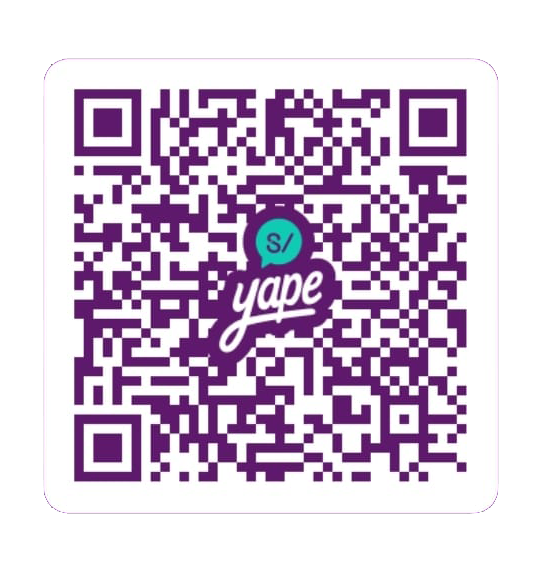
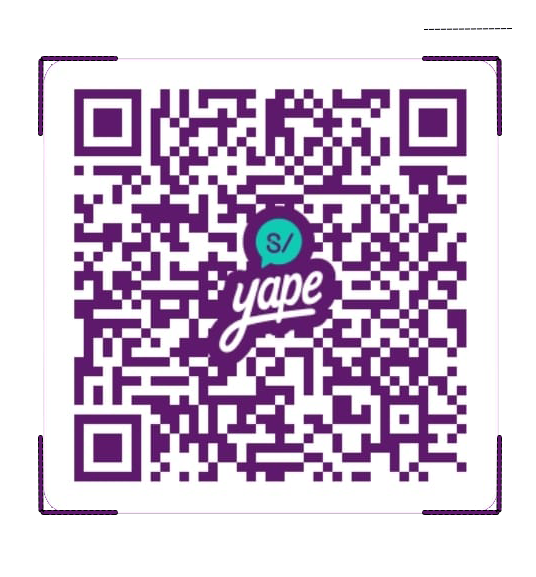
Version-Master

diff --git a/style/styles.css b/style/styles.css
@@ -1,8 +1,8 @@
 :root{
     --black:#000;
     --colorshadow:rgba(73, 121, 255, 0.418);
-    --colorcirculo:#00ff15;
-    --colorcirculoyape:#4f0052;
+    --colorcirculo:#ffffff;
+    --colorcirculoyape:#ffffff;
 }
 *{
     box-sizing: border-box;
@@ -11,12 +11,25 @@
     list-style: none;
     text-decoration: none;
 }
+h5{
+    color: white;
+    font-family: 'Lucida Sans', 'Lucida Sans Regular', 'Lucida Grande', 'Lucida Sans Unicode', Geneva, Verdana, sans-serif;
+}
 nav{
     display: grid;
     padding: 0% 10%;
     height: 70px;
     box-shadow: 1px 4px 20px var(--colorshadow);
     grid-template-columns: 1fr 2fr;
+}
+
+.Comand{
+    height: 15vh;
+    display: flex;
+    gap: 10px;
+    align-items: center;
+    justify-content: center;
+    padding: 5% 10%;
 }
 .checked, #check{
     display: none;
@@ -63,9 +76,7 @@ a{
     display: grid;
     gap: 10px;
     border-radius: 12px;
-    padding: 5%;
-    background-color: red;
-    
+    padding: 5%; 
     border: 1px solid rgb(204, 204, 204);
     grid-template-columns: 1fr 1fr;
 }
@@ -84,7 +95,10 @@ section{
 }
 .yape{
     width: 50%;
-    margin-top: -80px;
+    margin-top: -0px;
+}
+.Text_QR{
+    font-family: Arial, Helvetica, sans-serif;
 }
 .float_yape{
     display: none; /* Ocultar el modal por defecto */
@@ -94,11 +108,25 @@ section{
     bottom: 0vh;
     width: 100%;
     z-index: 3;
-    border-radius: 12px 12px 0px 0px;
+    box-shadow: 0px 0px 10px var(--colorshadow);
+    border-radius:20px 20px 0px 0px;
     height: 45%;
-    box-shadow: 1px 1px 10px black;
-/* Habilitar el scroll si el contenido es muy grande */
-    background-color: rgb(95, 0, 104); /* Fondo semitransparente */
+
+}
+.ScanQR{
+    height: 10vh;
+    display: flex;
+    font-family: 'Lucida Sans', 'Lucida Sans Regular', 'Lucida Grande', 'Lucida Sans Unicode', Geneva, Verdana, sans-serif;
+    align-items: center;
+    color: rgb(0, 0, 0);
+    justify-content: center;
+}
+.Conainer_Content_yape{
+    height: 100%;
+    text-align: center;
+    background-color: rgb(255, 255, 255);
+    display: block;
+    grid-template-columns: 1fr;
 }
 .container_yape{
     display: flex;
@@ -106,19 +134,21 @@ section{
     justify-content: center;
     height: 100%;
 }
-#yapeQrConainer{
-    position: fixed;
-    bottom: 0%;
-    height: 8vh;
-    display: flex;
-    justify-content: center;
-    align-items: center;
-    width: 100%;
-    z-index: 5;
-    background-color: white;
-    border-radius: 12px 12px 0px 0px;
-    border-top: 1px solid rgb(214, 214, 214);
+.btn_comand{
+    background-color: black;
 }
+.container_btn_Comand{
+    background-color: rgb(0, 0, 0);
+    border-radius: 8px;
+    display: flex;
+    height: 6vh;
+    align-items: center;
+    justify-content: center;
+    width: 50%;
+    padding: 1%;
+    gap: 20px;
+}
+
 #QR{
     font-size: 35px;
 }
@@ -127,8 +157,8 @@ h3{
 }
 .container_auto_one{
     padding: 5%;
-    background-color:rgb(255, 255, 255);
     height: 30vh;
+    z-index: -2;
     display: grid;
     grid-template-columns: 1fr;
     border-radius: 12px;
@@ -141,23 +171,21 @@ h3{
     }
     #checkyape:checked + .float_yape{
         background-color:var(--colorcirculoyape);
-        z-index: 3;
-        clip-path: polygon(0 0, 100% 0, 100% 100%, 0% 100%);
+        z-index: 1;
+        clip-path:   circle(100% at center);
     }
     .float_yape{
         position: fixed;
         left: 0px;
-        
         flex-direction: column;
-        display: flex;
-        align-items: center;
-        justify-content: start;
+        display: grid;
+        grid-template-columns: 1fr;
         padding-top: 10%;
         margin-top: 68px;
         background-color:var(--colorcirculoyape);
-        height: 40%;
-        z-index: -4;
-        clip-path: polygon(0 100%, 100% 100%, 100% 100%, 0% 100%);
+        height: 60%;
+        z-index:1;
+        clip-path: circle(0 at center);
         transition: clip-path 1s ease-in-out;
     }
     .checked{
@@ -172,14 +200,20 @@ h3{
         align-items: center;
         justify-content: end;
     }
-    a::after{
+    .bx-minus{
+        position: absolute;
+        margin-top: -60vh;
+        font-size: 40px;
+        color: rgb(165, 165, 165);
+    }
+    /* .ScanQR::after{
         content: "";
         height: 3px;
         width: 40vh;
         display: block;
         background-color: #000;
-        margin-top: 3px;
-    }
+        margin-top: -200px;
+    } */
     .nav_menu{
         position: fixed;
         left: 0px;
@@ -212,24 +246,40 @@ h3{
     padding: 5px;
     border-radius: 5px;
   }
+  #paid:checked + .modal{
+    
+    background-color: red;
+  }
 .modal {
     display: none; /* Ocultar el modal por defecto */
     position: fixed; /* Fijar el modal a la ventana */
     z-index: 1; /* Colocar el modal encima de otros elementos */
     left: 0;
-    top: 0;
     width: 100%;
+    bottom: 0px;
     height: 100%;
+    
     overflow: auto; /* Habilitar el scroll si el contenido es muy grande */
-    background-color: rgba(0,0,0,0.4); /* Fondo semitransparente */
+    background-color: rgba(255, 255, 255, 0); /* Fondo semitransparente */
   }
-  
+  .enviar{
+    width: 80%;
+    background-color: black;
+    color: white;
+    border-radius: 8px;
+    height: 6vh;
+  }
+  .pagad{
+
+  }
   .modal-content {
-    background-color: #fefefe;
-    margin: 15% auto;
+    position: fixed;
+    box-shadow: 0px 0px 10px var(--colorshadow);
+    background-color: #ffffff;
     padding: 20px;
-    border: 1px solid #888;
-    width: 80%;  
+    bottom: 0;
+    height: 50%;
+    width: 100%;  
   }
   
   .close{

diff --git a/index.html b/index.html
@@ -5,7 +5,7 @@
     <meta name="viewport" content="width=device-width, initial-scale=1.0">
     <link href='https://unpkg.com/boxicons@2.1.4/css/boxicons.min.css' rel='stylesheet'>
     <link rel="stylesheet" href="style/styles.css">
-    <title>Menu</title>
+    <title>CarKids</title>
 </head>
 <body>
     <nav>
@@ -13,7 +13,8 @@
             <img class="Logo" src="img/Logo.png" alt="Imagen No Cargada">
         </div>
         <div class="container_two">
-            <label for="check" class="checked">
+
+            <!-- <label for="check" class="checked">
                 <i class='bx bx-menu' id="menu"></i>
             </label>
             <input type="checkbox" id="check">
@@ -22,21 +23,50 @@
                 <li><a href="#">Servicios</a></li>
                 <li><a href="#">Productos</a></li>
                 <li><button class="btn_empezar">Empezar</button></li>
-            </ul>
+            </ul> -->
+
+
+            <!-- QR -->
+            <label for="checkyape" class="checked" id="yapeQrConainer">
+                <i id="QR" class='bx bx-qr' ></i>
+            </label>
+            <input type="checkbox" id="checkyape">
+            <div class="float_yape" id="myYape">
+                
+                <div class="container_yape">
+                    <i id="Line" class='bx bx-minus'></i>
+                    <div class="Conainer_Content_yape">
+                        <h2 class="ScanQR">Scan QR Code</h2>
+                        <p class="Text_QR">Place QR inside the frame to scan</p>
+                        <img class="yape" src="img/yape_David.png" alt="">
+                    </div>
+                    
+                </div>
+            
+            </div>
+
         </div>
     </nav>
-    <div id="openModal" class="OpenModal">
-            <h4>Lamborguini</h4>
+    <div class="Comand">
+        <div class="container_btn_Comand" id="openModal">
+            <i class='bx bx-plus' style='color:#fffdfd;width: 15px;'  ></i>
+            <h5>New</h5>
+        </div>
+        <div class="container_btn_Comand">
+            <i class='bx bx-plus' style='color:#fffdfd;width: 15px;'  ></i>
+            <h5>Delete</h5>
+        </div>
+        <div class="container_btn_Comand">
+            <i class='bx bx-plus' style='color:#fffdfd;width: 15px;'  ></i>
+            <h5>Update</h5>
+        </div>
     </div>
+    <!-- <div id="openModal" class="OpenModal">
+            <h4>Lamborguini</h4>
+    </div> -->
     <section class="container_auto_one">
         
-         
     </section>
-
-   
-
-
-
     <div id="myModal" class="modal">
         <div class="modal-content">
             <span class="close">&times;</span>
@@ -52,25 +82,15 @@
                     <option value="50">50 minutos - 25 soles</option>
                     <option value="60">60 minutos - 30 soles</option>
                 </select><br><br>
-                <label for="paid">Pagado:</label>
-                <input type="checkbox" id="paid" name="paid"><br><br>
-                <input type="submit" value="Enviar">
+                <label class="pagad" for="paid">Pagado:</label>
+                <input class="pag" type="checkbox" id="paid" name="paid"><br><br>
+                <input class="enviar" type="submit" value="Enviar">
             </form>
         </div>   
     </div>
 
     <div class="float_activity_yape" id="activityyape">
-        <label for="checkyape" class="checked" id="yapeQrConainer">
-            <i id="QR" class='bx bx-qr' ></i>
-        </label>
-        <input type="checkbox" id="checkyape">
-        <div class="float_yape" id="myYape">
-            <div class="container_yape">
-                
-                <img class="yape" src="img/yape_David.png" alt="">
-            </div>
         
-        </div>
     </div>
     
 

diff --git a/script.js b/script.js
@@ -42,38 +42,16 @@ document.addEventListener("DOMContentLoaded", function () {
     });
 });
 
-function startTimer(paid) {
-    intervalId = setInterval(function () {
-        if (timeLeft > 0) {
-            timeLeft--;
-            const minutes = Math.floor(timeLeft / 60);
-            const seconds = timeLeft % 60;
-            console.log(`Tiempo restante: ${minutes} minutos ${seconds} segundos`);
-        } else {
-            clearInterval(intervalId);
-            if (!paid) {
-                alert("El tiempo ha expirado y no ha pagado. Por favor, pague para continuar.");
-            } else {
-                alert("El tiempo ha expirado. Gracias por pagar.");
-            }
-        }
-    }, 1000); // cada segundo
-}
-
 const form = document.querySelector('form');
 const containerAutoOne = document.querySelector('.container_auto_one');
 
 // ...
-
 form.addEventListener('submit', (e) => {
     e.preventDefault();
     const tiempo = document.querySelector('#time').value;
     const pagado = document.querySelector('#paid').checked;
-  
     const datos = `
   <div class="Container_Car">
-        
-        
       <div class="container_left">
         <h3>Tiempo: ${tiempo} minutos</h3>
         <p class="pagado ${pagado ? 'pagado-verde' : 'pagado-rojo'}"> Pagado: ${pagado ? 'Sí' : 'No'}</p>
@@ -82,6 +60,5 @@ form.addEventListener('submit', (e) => {
         <img src="img/image.png" alt="Not Image">
       </div> </div>
     `;
-  
     containerAutoOne.innerHTML += datos;
   });
